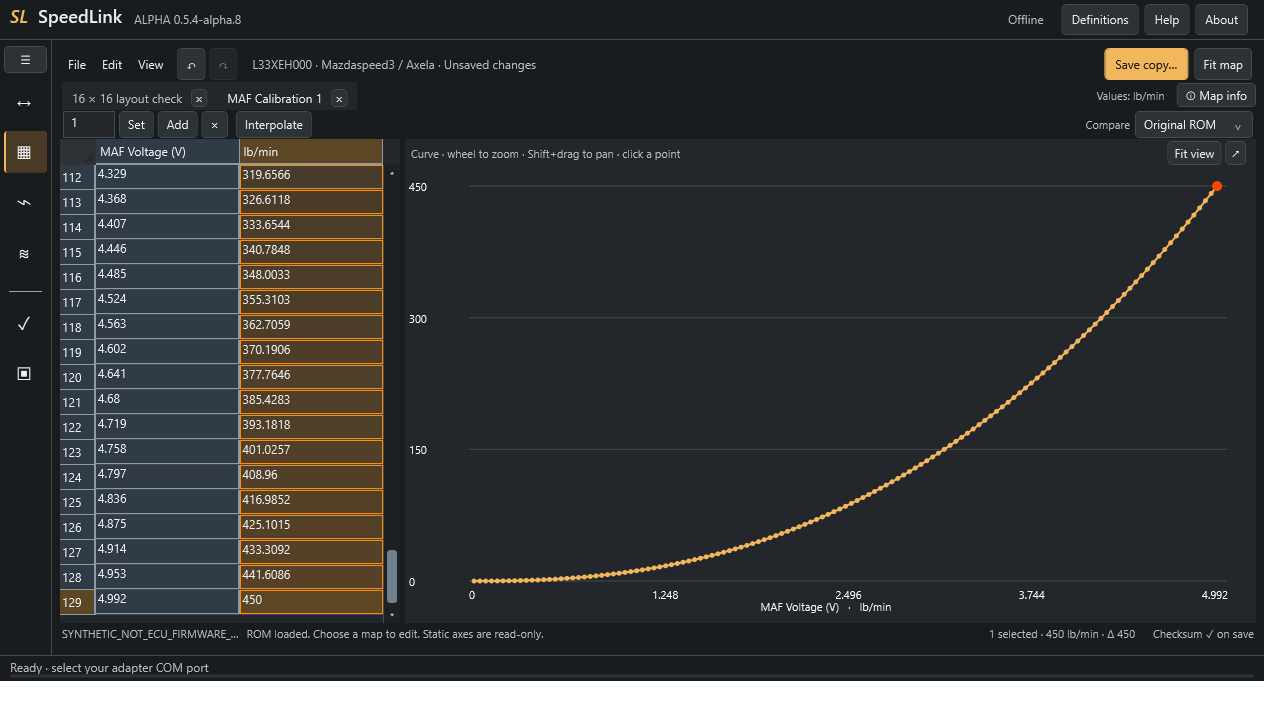
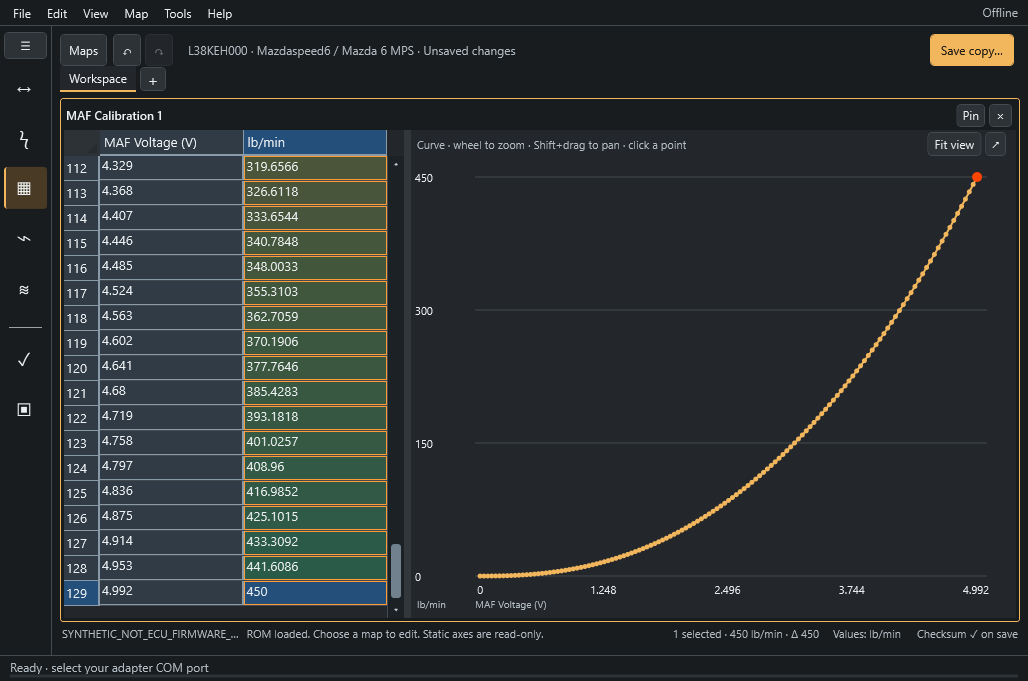
Refresh the SpeedLink alpha.13 walkthrough and screenshots (#58)
Update the silent walkthrough and refresh the editor, logger and ROM backup guide screenshots from the tagged build.

diff --git a/README.md b/README.md
@@ -6,12 +6,12 @@ Open-source ROM reading, data logging, ROM editing, and Gen 1 flashing and recov
 
 **[Download SpeedLink v0.8.0-alpha.13](https://github.com/mrphyslaw/SpeedLink/releases/tag/v0.8.0-alpha.13)** · A single Windows EXE with the runtime included.
 
-**Watch the SpeedLink v0.8.0-alpha.5 walkthrough (1:27)** · Silent with on-screen captions.
+**Watch the SpeedLink v0.8.0-alpha.13 walkthrough (1:03)** · Silent with on-screen captions.
 
-https://github.com/user-attachments/assets/b4f13fbb-896c-4eae-93b6-aa2b6b252f4c
+https://github.com/user-attachments/assets/bd476c2f-417a-4cbd-9468-7bdceb906616
 
-See verified backups, side-by-side maps and 3D previews, the built-in tuning guide,
-logging and playback, and Gen 1 post-write verification. ECU operations shown are simulated.
+See verified backups, map docking, reassignable shortcuts, Light and Dark cell
+colors, row-label resizing, and logging and playback. The examples use synthetic data.
 
 Use the permanent File, Edit, View, Map, Tools and Help menus throughout the app. Sidebar icons show their workspace names by default; collapse them when you want more map space. **Pin** the maps you want to keep side by side while you browse in a reusable pane. Use the **+** after the last workspace tab to save named layouts such as Fuel Tuning or Boost Control. Auto fit preserves readable text and uses available cell spacing. Replace the EXE and keep your existing `data` folder. See [changes](CHANGELOG.md), the [editor guide](docs/EDITOR.md) and [reporting problems](docs/TROUBLESHOOTING.md).
 
@@ -52,7 +52,8 @@ rotatable 3D surfaces. [More editor screenshots and a first-edit walkthrough →
 Axis headers have a distinct background and bright separators. **Map → Map information…** and **F1** show units, correction direction and practical examples.
 Axis titles stay centered beside the visible rows and above the visible columns,
 including short tables with unused space. [See the alignment example →](docs/editor/README.md#axis-titles-follow-the-data)
-The map-window preview uses synthetic example values.
+The map-window preview uses synthetic example values. **View → Appearance** changes
+the map gradient with the theme. [Compare Light and Dark and see the shortcut settings](docs/editor/README.md#appearance-and-shortcuts).
 
 Single values use compact cards that wrap across the workspace, with units,
 help and baseline comparison. Rejected ROM files leave the current editing

diff --git a/docs/editor/README.md b/docs/editor/README.md
@@ -22,6 +22,20 @@ synthetic values.
 
 ![The File menu opens ROMs and recordings and saves a verified ROM copy](images/application-file-menu.png)
 
+## Appearance and shortcuts
+
+**View → Appearance** switches among System, Light and Dark. Map cells use a
+smooth low-to-high color gradient for the selected theme. This example shows
+the same synthetic table in Light mode.
+
+![A synthetic VVT table showing the Light theme's rose, gold and mint gradients](images/application-navigation-light.png)
+
+Use **Tools → Keyboard shortcuts** to reassign or clear a binding, restore
+individual defaults, or reset the whole list. F4 switches the active map
+between table and graph, and F7 docks or undocks it by default.
+
+![Keyboard shortcut settings with editable bindings and restore controls](images/keyboard-shortcuts.png)
+
 ## Room for the map
 
 ### Axis titles follow the data
@@ -43,6 +57,8 @@ Drag titles to move panes inside the workspace. Manual resizing and movement
 allow overlap; clicking a map or selecting it in the browser brings it forward.
 Use **Map → Tile maps side by side** to reset manual placement.
 The multi-map screenshot uses synthetic values, not vehicle tuning advice.
+
+![Named Boost Control and Fuel Tuning workspace tabs with a trailing plus button](images/named-workspaces.png)
 
 ![A lower curve widened independently below three scalar maps and another curve](images/independent-panes.png)
 
@@ -107,6 +123,12 @@ switching maps. Single-state maps use a named selector in the same layout.
 Small tables use a grid sized to their data, with clear axis bands and readable
 cells. Short curves get a curve preview with fewer ticks when space is limited.
 Multi-state controls retain their labeled rows without an empty graph.
+
+![A Monitor Requests table showing both full row labels and the resizable divider beside Value](images/named-row-labels.png)
+
+Named rows fit their labels on open. Drag the divider beside **Value** to
+resize the label column while keeping the font and cells at the same size.
+Double-click to fit the text again.
 
 ## Rotatable 3D surfaces
 
